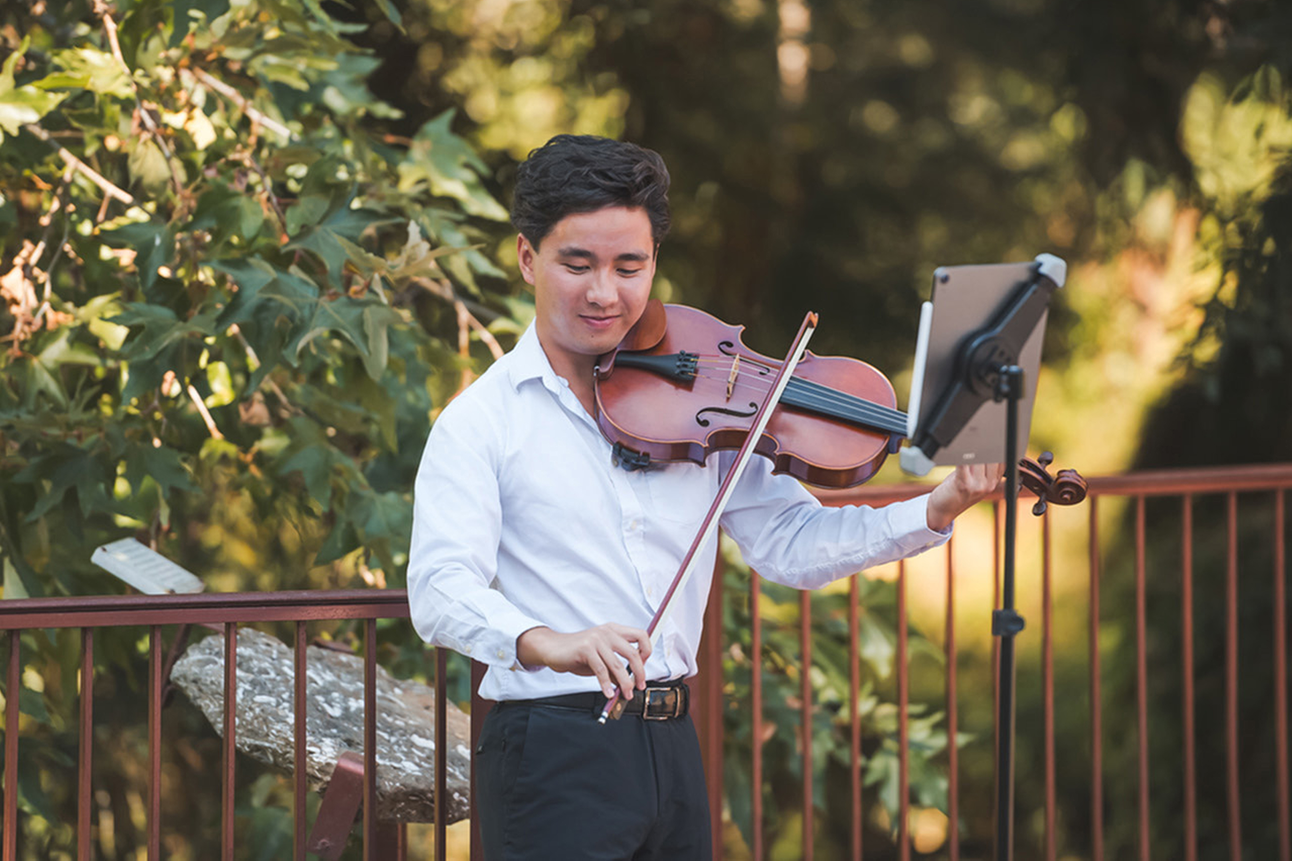
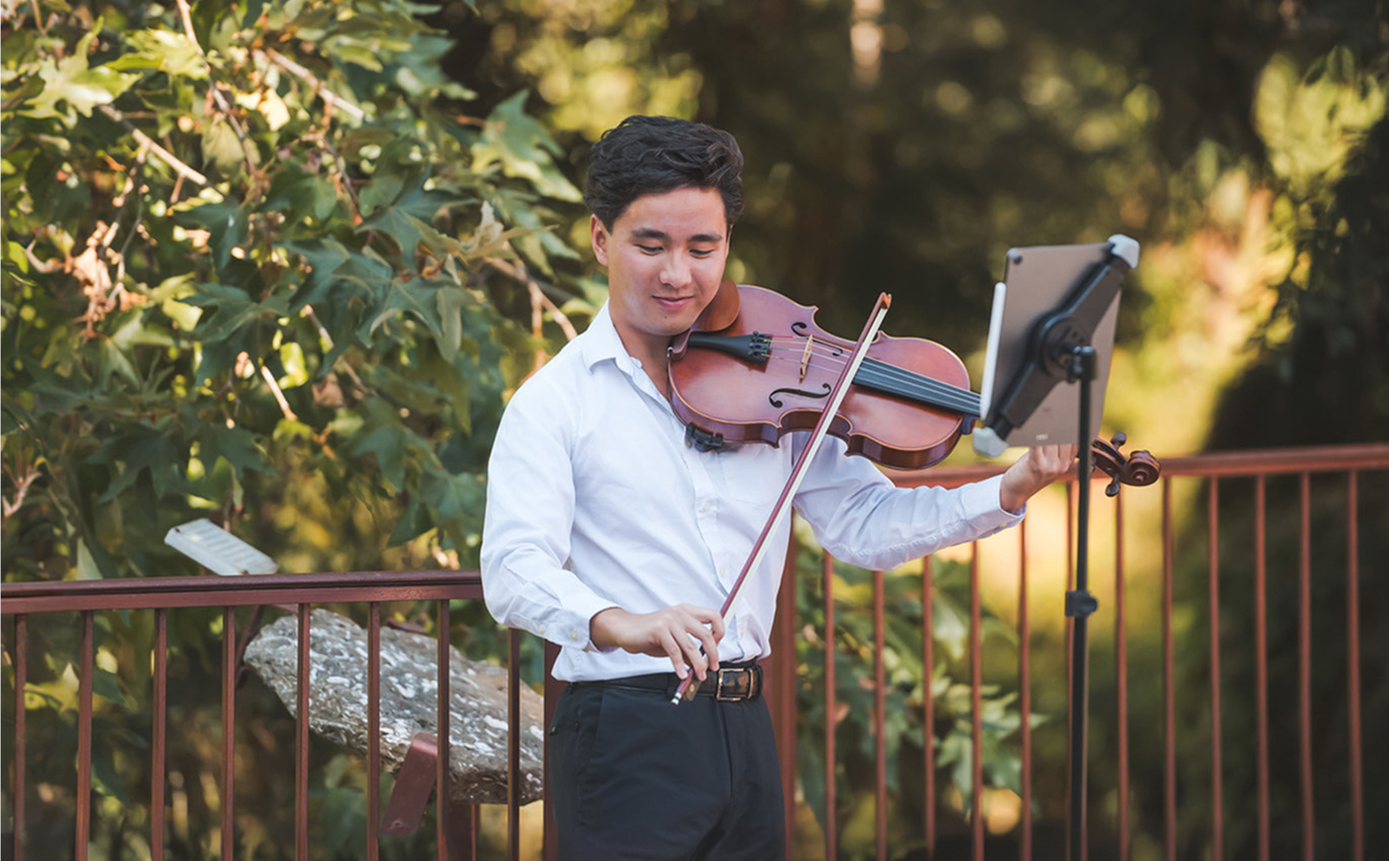
design updates pt. 2

diff --git a/index.html b/index.html
@@ -132,7 +132,7 @@
                 <div class="divider"></div>
               </div>
               <div class="paragraphs">
-                <p class="reveal">When I was eight years old, my mother decided that I should pick up either the violin or the piano. Eight-year-old me didn't really feel like doing either, so I went with the one I heard first. Thanks, mom!</p>
+                <p class="reveal">When I was eight years old, my mother decided that I should pick up the violin or the piano. I didn't really know what either of those words meant, so I went with the one I heard first. Thanks, mom!</p>
                 <p class="reveal">After years of classical training, I grew to appreciate the violin, but what I really loved about music was exploring new worlds of sound. That's why I've since picked up the <span class="bold">violin</span>, <span class="bold">viola</span>, <span class="bold">cello</span>, <span class="bold">double bass</span>, <span class="bold">trombone</span>, and <span class="bold">piano</span> as part of a musical career that I can only describe as one of the greatest gifts of my life.</p>
                 <p class="reveal">Somehow one thing led to another, and I started traveling the world performing in places like <span class="bold">Costa Rica's National Theater</span> and <span class="bold">Taiwan's Presidential Office</span>. Back at home in Los Angeles, I've played in everything from short films and Broadway musicals to string quartets and the UCLA Symphony Orchestra, where I held an assistant principal position.</p>
                 <p class="reveal">But at the end of the day, I still feel like that same eight-year-old kid at heart: noodling around on whatever instrument I can get my hands on, chasing new sounds, and trying to use music to navigate this crazy ride we call life. Thanks for joining me!</p>
@@ -160,7 +160,7 @@
                     <i class="fa-solid fa-star"></i>
                   </p>
                   <h1>“A hit”</h1>
-                  <p class="label">Mary ∙ Wedding Reception</br></p>
+                  <p class="label">Mary ∙ First Dance</br></p>
                 </div>
                 <div class="testimonial reveal">
                   <p class="stars">
@@ -193,7 +193,7 @@
                     <i class="fa-solid fa-star"></i>
                   </p>
                   <h1>“Brilliant”</h1>
-                  <p class="label">Giselle ∙ Wedding Cocktail Hour</br></p>
+                  <p class="label">Giselle ∙ Cocktail Hour</br></p>
                 </div>
               </div>
             </div>
@@ -242,10 +242,10 @@
                     <p class="label">Starting at $700/hr</p>
                   </div>
                   <div class="card-text-wrapper">
-                    <p>Proposals ∙ Pre-Ceremonies ∙ Ceremonies</p>
+                    <p>Pre-Ceremonies ∙ Ceremonies ∙ Cocktail Hours</p>
                   </div>
                   <div class="card-text-wrapper">
-                    <p>Cocktail Hours ∙ Dances ∙ Receptions</p>
+                    <p>Dances ∙ Receptions ∙ Elopements</p>
                   </div>
                 </div>
               </div>
@@ -260,10 +260,10 @@
                     <p class="label">Starting at $300/hr</p>
                   </div>
                   <div class="card-text-wrapper">
-                    <p>Corporate Events ∙ Parties ∙ Fundraisers</p>
+                    <p>Proposals ∙ Corporate Events ∙ Parties</p>
                   </div>
                   <div class="card-text-wrapper">
-                    <p>Galas ∙ Trade Shows ∙ Open Houses</p>
+                    <p>Fundraisers ∙ Dinners ∙ Galas</p>
                   </div>
                 </div>
               </div>
@@ -300,29 +300,29 @@
             <div class="text">
               <div class="flex-text reveal">
                 <div>
-                  <h2 class="reveal">Customizable Setlist</h2>
+                  <h2 class="reveal">Custom Setlist</h2>
                   <p class="reveal">Unlimited selections from my <a  class="nav-music-2 inline" onclick="enableScroll()">repertoire</a> of over 170 songs.<sup>1</sup></p>
                   <!-- repertoire count as of 01/23/2026: 175 -->
                 </div>
                 <div>
                   <h2 class="reveal">Rehearsal Recordings</h2>
-                  <p class="reveal">Sent in advance for your ceremony and dance rehearsal needs.<sup>2</sup></p>
+                  <p class="reveal">Sent in advance for wedding ceremonies and dances.<sup>2</sup></p>
                 </div>
                 <div>
-                  <h2 class="reveal">Intro Call</h2>
-                  <p class="reveal">A Zoom or phone call for me to get to know you and your needs.</p>
-                </div>
-                <div>
-                  <h2 class="reveal">Quick Responses</h2>
-                  <p class="reveal">Get a reply within 48 hours for any email/text before your booking.</p>
-                </div>
-                <div>
-                  <h2 class="reveal">Professional Sound</h2>
-                  <p class="reveal">Wireless sound gear for backing instrumentals and amplification.</p>
+                  <h2 class="reveal">Sound Equipment</h2>
+                  <p class="reveal">Battery-powered PA system suitable for up to 300 guests.</p>
                 </div>
                 <div>
                   <h2 class="reveal">Vendor Insurance</h2>
                   <p class="reveal">General liability up to $1,000,000. Copy provided upon request.</p>
+                </div>
+                <div>
+                  <h2 class="reveal">Intro Call</h2>
+                  <p class="reveal">A video/phone call for us to get acquainted and discuss your needs.</p>
+                </div>
+                <div>
+                  <h2 class="reveal">Quick Responses</h2>
+                  <p class="reveal">Get a reply within 48 hours for any email/text before your booking.</p>
                 </div>
               </div>
               <p class="disclaimer reveal">Additional fees apply for travel time (as calculated from Glendora, CA), <sup>1</sup>song requests outside of my repertoire, and <sup>2</sup>live attendance at wedding/event rehearsals.</p>
@@ -586,7 +586,7 @@
                     Edelweiss
                   </p>
                   <p>
-                    <span class="bold">A Star is Born</span><br>
+                    <span class="bold">A Star Is Born</span><br>
                     Shallow
                   </p>
                   <p>
@@ -635,7 +635,7 @@
                     Après un Rêve, Fauré<br>
                     Bridal March (“Here Comes the Bride”), Wagner<br>
                     Canon in D, Pachelbel<br>
-                    Capriccio in C Minor ("Homepage to Paganini"), Vieuxtemps<br>
+                    Capriccio in C Minor ("Hommage à Paganini"), Vieuxtemps<br>
                     Clair de Lune, Debussy<br>
                     Estrellita, Ponce<br>
                     Jesu, Joy of Man's Desiring, Bach<br>
@@ -881,12 +881,12 @@
                   </label>
                 </div>
                 <div class="content">
-                  <p>While most of my bookings are in Southern California, I am open to performing anywhere. An additional fee for gas, airfare, and/or lodging will apply for long-distance bookings. I may also require your/your venue's/your other vendors' sound equipment if I am unable to transport my own.</p>
+                  <p>While most of my bookings are in Southern California, I am open to performing anywhere. An additional fee for gas, airfare, and/or lodging will apply for long-distance bookings.</p>
                 </div>
               </div>
               <div class="accordion reveal">
                 <div class="accordion-label">
-                  <h3>How long can you play for?</h3>
+                  <h3>Is there a minimum/maximum booking length?</h3>
                   <label class="accordion-btn">
                     <i></i>
                     <i></i>
@@ -915,14 +915,14 @@
               </div>
               <div class="accordion reveal">
                 <div class="accordion-label">
-                  <h3>Can you learn a song for my event?</h3>
+                  <h3>Do you take song requests?</h3>
                   <label class="accordion-btn">
                     <i></i>
                     <i></i>
                   </label>
                 </div>
                 <div class="content">
-                  <p>Yes! If you don't see what you're looking for in my <a  class="nav-music-3 inline" onclick="enableScroll()">repertoire</a>, I would be happy to learn any and all songs you'd like. A small additional fee will apply.</p>
+                  <p>Yes! If you don't see what you're looking for in my <a  class="nav-music-3 inline" onclick="enableScroll()">repertoire</a>, I am always happy to learn something new. A small additional fee will apply.</p>
                 </div>
               </div>
               <div class="accordion reveal">
@@ -959,6 +959,19 @@
                 </div>
                 <div class="content">
                   <p>Yes! I can play in a duet, trio, or quartet with other strings and/or a piano by request. Please be advised that this will come at a higher cost, and some songs in my repertoire may not be available.</p>
+                </div>
+              </div>
+              <div class="accordion reveal">
+                <div class="accordion-label">
+                  <h3>Can you play a different instrument?</h3>
+                  <label class="accordion-btn">
+                    <i></i>
+                    <i></i>
+                  </label>
+                </div>
+                <div class="content multi-paragraph">
+                  <p>Yes! While I do most of my gigs on viola, I am also comfortable performing on violin and cello.</p>
+                  <p>I am currently piloting a "one-man band" experience involving switching off on different string instruments over the course of one performance. Please reach out if you're interested—as this is a new offering I am happy to provide a discount on your booking!</p>
                 </div>
               </div>
             </div>

diff --git a/css/main.css b/css/main.css
@@ -115,7 +115,7 @@ video {
   top: 50%;
   left: 50%;
   transform: translate(-50%, -35%);
-  font-size: max(min(40vw, 55vh), 27rem);
+  font-size: max(min(44vw, 57vh), 27rem);
   width: 100%;
   letter-spacing: -2%;
   text-align: center;
@@ -220,8 +220,8 @@ h3 {
 
 .testimonials h1 {
   font-size: 7.5rem;
-  padding-top: 0.25em;
-  margin-bottom: 0;
+  padding-top: 0.375em;
+  margin-bottom: 0.1em;
   white-space: nowrap;
 }
 
@@ -283,7 +283,7 @@ sup {
 
 .disclaimer {
   font-style: italic;
-  margin-top: 1em;
+  margin-top: 1.5em;
   font-size: 0.875rem;
 }
 
@@ -306,7 +306,7 @@ sup {
   display: flex;
   gap: 0em;
   position: absolute;
-  bottom: 0;
+  bottom: -1em;
   left: 50%;
   transform: translateX(-50%);
   transition: var(--bezier);
@@ -357,11 +357,11 @@ sup {
 }
 
 .active.weddings .card-content p {
-    width: 34ch;
+    width: 37.4ch;
 }
 
 .active.events .card-content p {
-    width: 31.8ch;
+    width: 30.4ch;
 }
 
 .active.sessions .card-content p {
@@ -371,9 +371,11 @@ sup {
 .card-content .card-text .card-text-wrapper:nth-child(1) p {
   transition-delay: 0s;
 }
+
 .card-content .card-text .card-text-wrapper:nth-child(2) p {
   transition-delay: 0.1s;
 }
+
 .card-content .card-text .card-text-wrapper:nth-child(3) p {
   transition-delay: 0.2s;
 }
@@ -383,13 +385,8 @@ sup {
   font-weight: 500;
 }
 
-.card img {
-  transform: scale(1);
-  transition: var(--bezier);
-}
-
-.active img {
-  transform: scale(1.2);
+.card.active img {
+  transform: scale(1.1);
 }
 
 .video .label {
@@ -481,6 +478,7 @@ nav a {
   height: calc(.89 * (100vh - 5em));
   margin-top: 5em;
   object-position: center;
+  transform: scale(1);
 }
 
 .cutout {
@@ -539,7 +537,7 @@ nav a {
 }
 
 .bio .flex img {
-  width: 25em;
+  width: 27em;
   aspect-ratio: 5/8;
   object-fit: cover;
 }
@@ -577,8 +575,11 @@ nav a {
 }
 
 .content p {
+  padding: 1em 0 1.5em 0;
+}
+
+.multi-paragraph p:not(:first-child) {
   padding-top: 0.5em;
-  padding-bottom: 1.5em;
 }
 
 .multi-paragraph p:not(:last-child) {
@@ -852,7 +853,7 @@ section .container.no-space {
 .accordion-column {
   display: flex;
   flex-direction: column;
-  gap: 2em;
+  gap: 2.25em;
 }
 
 .flex {
@@ -908,6 +909,7 @@ section .container.no-space {
   width: 100%;
   overflow: hidden;
   cursor: pointer;
+  height: max(40em, 40vw);
   max-height: 75vh;
   flex: 1;
 }
@@ -917,13 +919,12 @@ section .container.no-space {
 }
 
 .card img {
-  height: max(40em, 40vw);
   width: 100%;
+  height: 105%;
   object-fit: cover;
   z-index: -1;
-  display: block;
-  position: relative;
-  aspect-ratio: 16/9;
+  transform: scale(1);
+  transition: var(--bezier);
 }
 
 .spacing {
@@ -1055,8 +1056,8 @@ section .container.no-space {
     width: 100%;
   }
 
-  .card-content {
-    bottom: -1em;
+  .card img {
+    object-position: center 25%;
   }
 
   .flex.guarantee {
